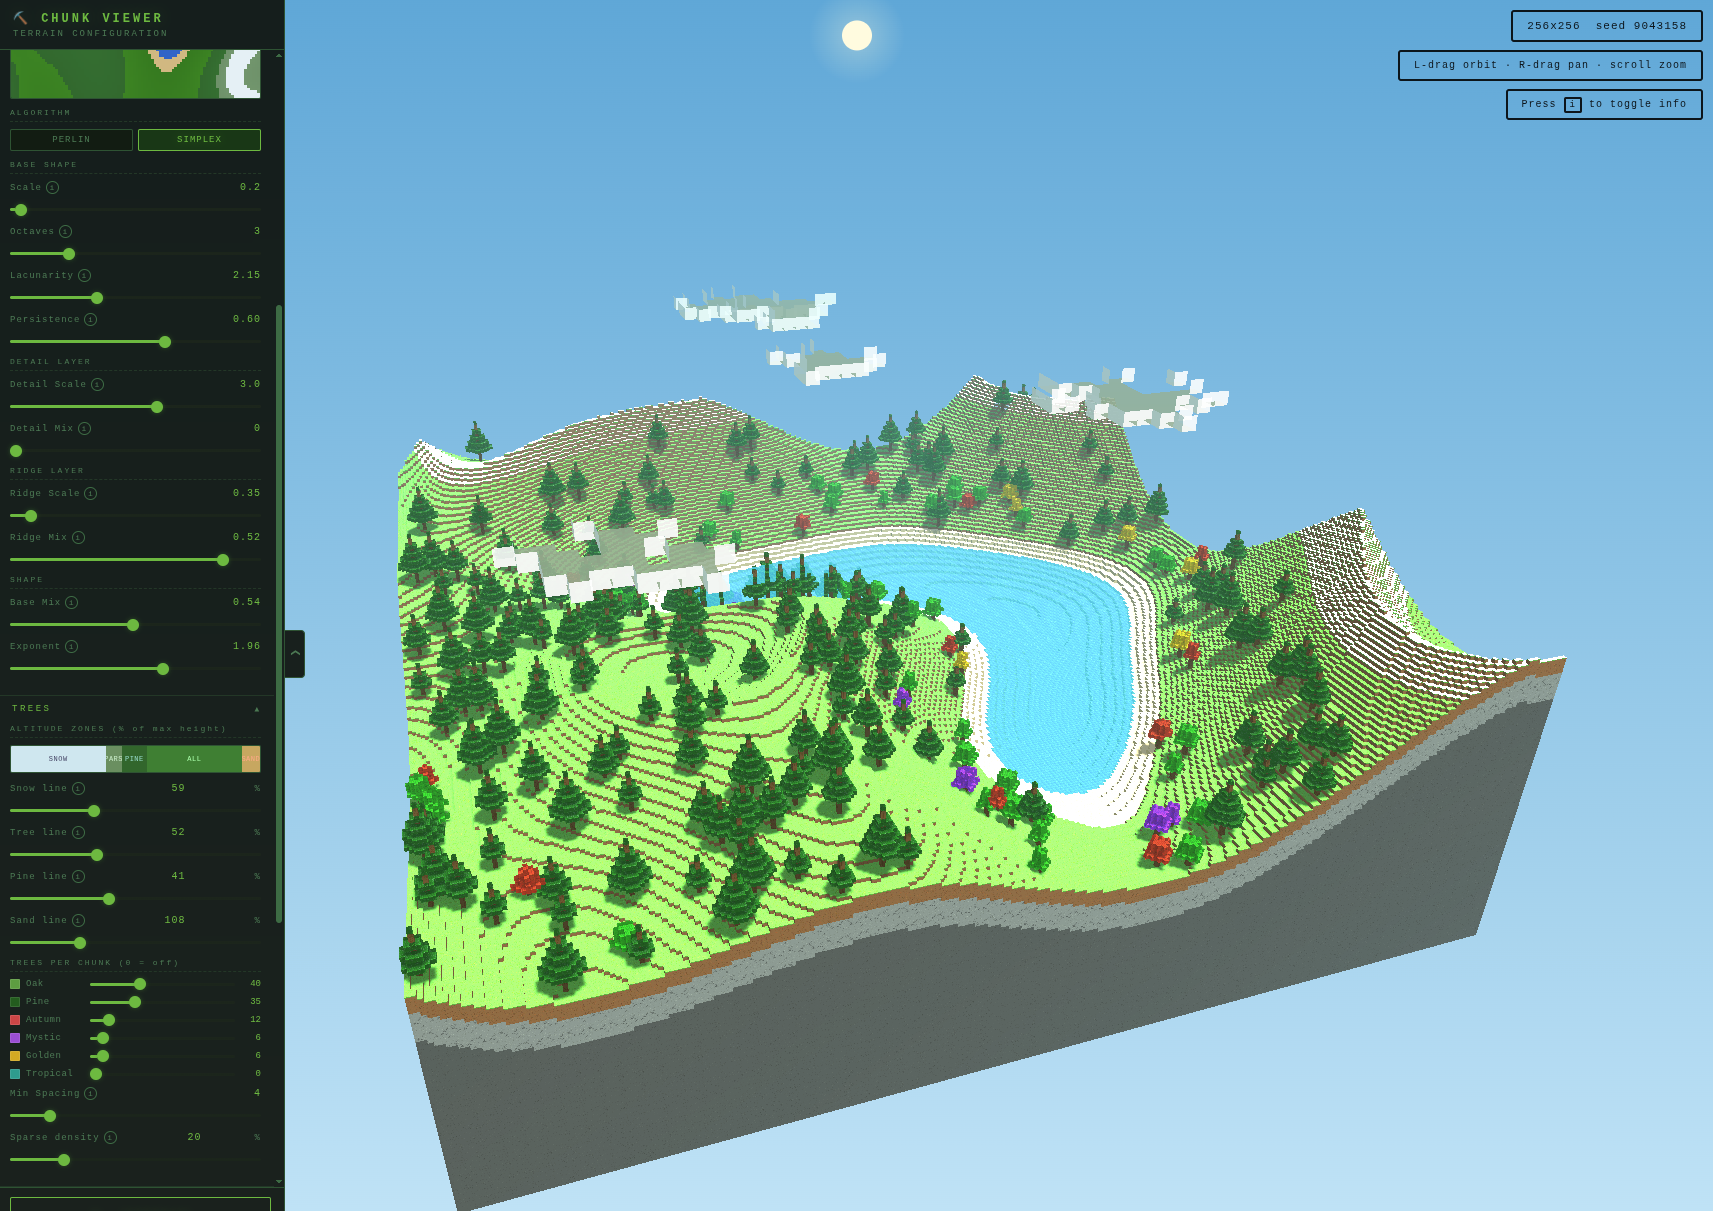
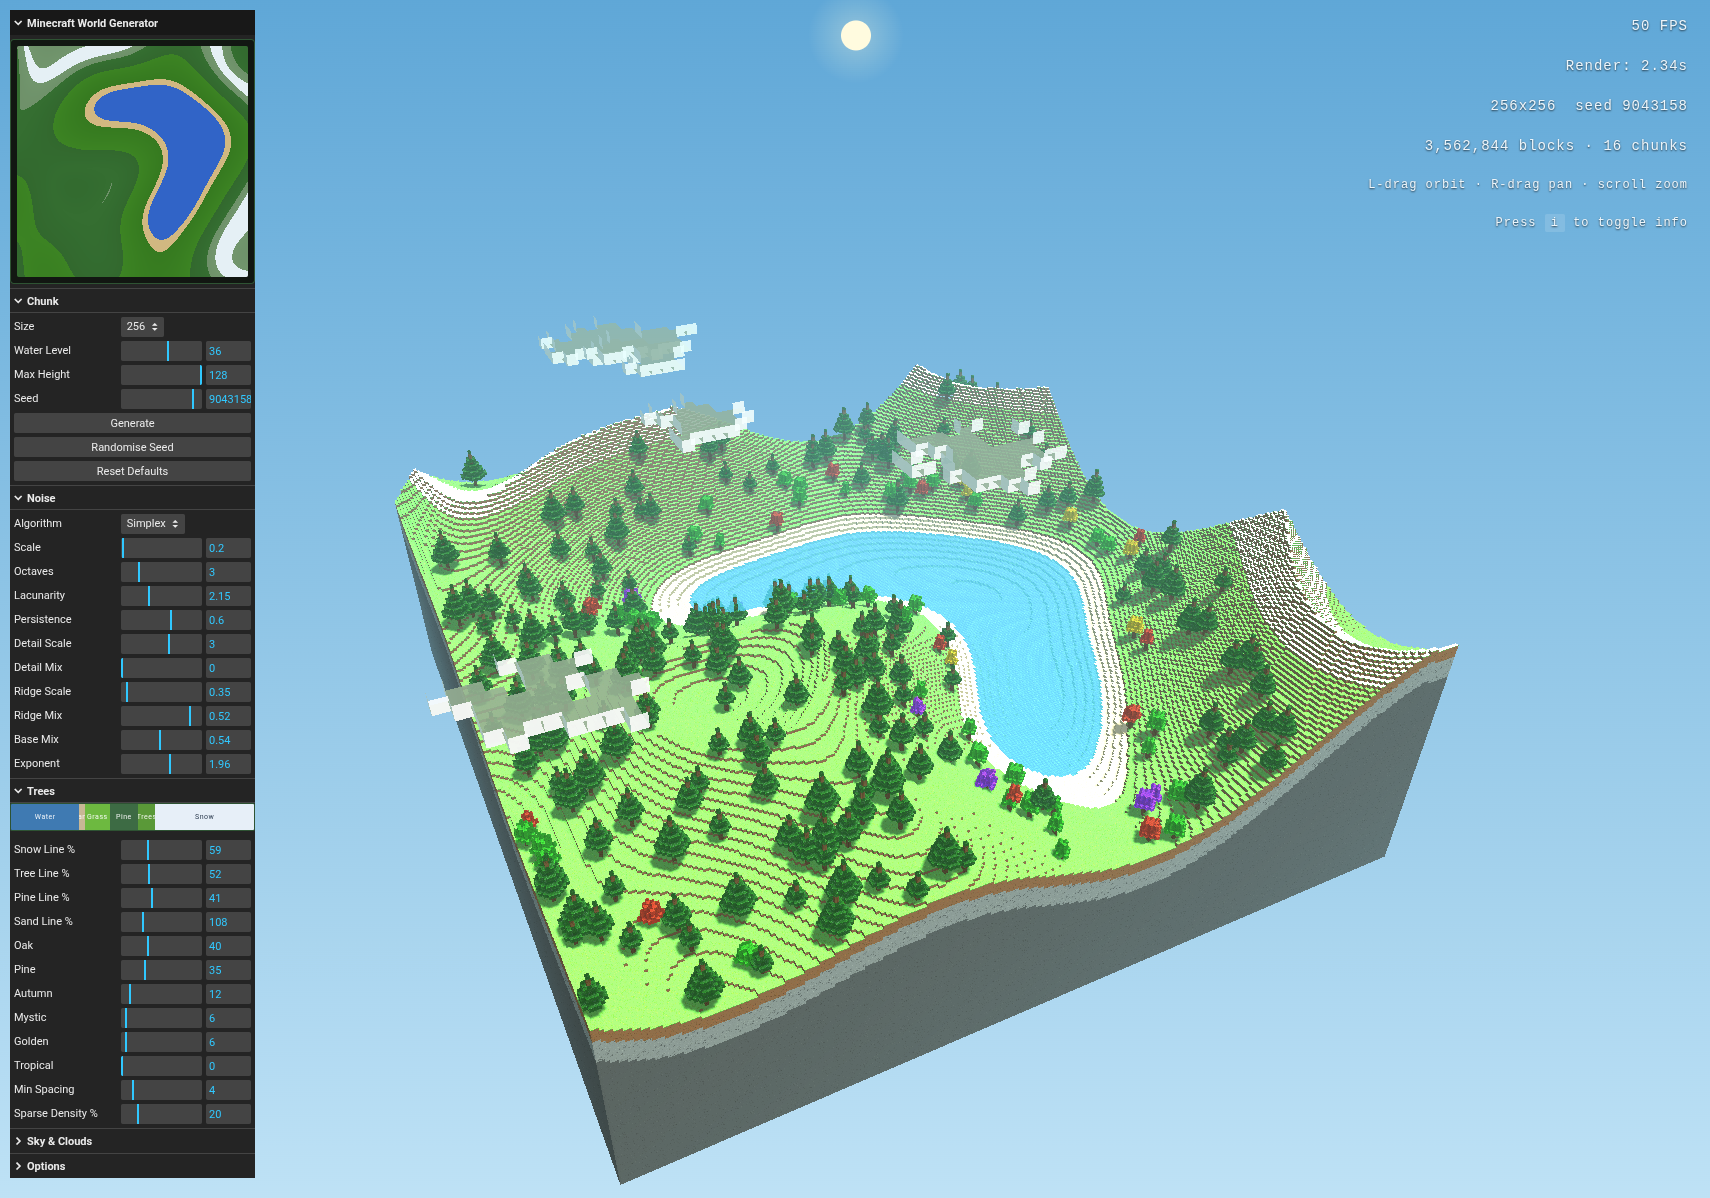
preview update

diff --git a/app.js b/app.js
@@ -1141,6 +1141,25 @@ function drawNoisePreview(){
 /* =====================================================
    LIL-GUI
 ===================================================== */
+function updateZoneVis(){
+  var zv=$e('zone-vis'); if(!zv) return;
+  var MAXH=cfg.maxHeight, WATER=cfg.waterLvl;
+  var sandLine=Math.round(WATER*(cfg.sandPct/100));
+  var pineLine=Math.round(MAXH*(cfg.pineline/100));
+  var treeLine=Math.round(MAXH*(cfg.treeline/100));
+  var snowLine=Math.round(MAXH*(cfg.snowPct/100));
+  var pct=function(a,b){ return Math.max(0,((b-a)/MAXH)*100); };
+  var bands=[
+    { el:zv.querySelector('[data-zone=water]'), w:pct(0,WATER) },
+    { el:zv.querySelector('[data-zone=sand]'), w:pct(WATER,sandLine) },
+    { el:zv.querySelector('[data-zone=grass]'), w:pct(sandLine,pineLine) },
+    { el:zv.querySelector('[data-zone=pine]'), w:pct(pineLine,treeLine) },
+    { el:zv.querySelector('[data-zone=trees]'), w:pct(treeLine,snowLine) },
+    { el:zv.querySelector('[data-zone=snow]'), w:pct(snowLine,MAXH) }
+  ];
+  for(var i=0;i<bands.length;i++){ if(bands[i].el) bands[i].el.style.width=bands[i].w+'%'; }
+}
+
 var treeRegenDebounce;
 function scheduleTreeRegenerate(){
   clearTimeout(treeRegenDebounce);
@@ -1155,8 +1174,8 @@ function setupGUI(){
   var chunkOpts = { 16:0, 32:1, 64:2, 96:3, 128:4, 256:5, 512:6, 1024:7 };
   var chunkFolder = gui.addFolder('Chunk');
   chunkFolder.add(cfg, 'chunkIdx', chunkOpts).name('Size').onChange(function(){ currentSeed=cfg.seed; generate(currentSeed); });
-  chunkFolder.add(cfg, 'waterLvl', 2, 60, 1).name('Water Level').onChange(function(){ scheduleNoise(); scheduleTreeRegenerate(); });
-  chunkFolder.add(cfg, 'maxHeight', 16, 128, 1).name('Max Height').onChange(function(){ scheduleNoise(); scheduleTreeRegenerate(); });
+  chunkFolder.add(cfg, 'waterLvl', 2, 60, 1).name('Water Level').onChange(function(){ updateZoneVis(); scheduleNoise(); scheduleTreeRegenerate(); });
+  chunkFolder.add(cfg, 'maxHeight', 16, 128, 1).name('Max Height').onChange(function(){ updateZoneVis(); scheduleNoise(); scheduleTreeRegenerate(); });
   chunkFolder.add(cfg, 'seed', 0, 9999999, 1).name('Seed');
   chunkFolder.add({ gen: function(){ currentSeed=cfg.seed; generate(currentSeed); } }, 'gen').name('Generate');
   chunkFolder.add({ rand: function(){ cfg.seed=currentSeed=Math.floor(Math.random()*9999999); generate(currentSeed); } }, 'rand').name('Randomise Seed');
@@ -1176,10 +1195,15 @@ function setupGUI(){
   noiseFolder.add(cfg, 'exp', 0.3, 3, 0.02).name('Exponent').onChange(scheduleNoise);
 
   var treeFolder = gui.addFolder('Trees');
-  treeFolder.add(cfg, 'snowPct', 40, 98, 1).name('Snow Line %').onChange(function(){ scheduleNoise(); scheduleTreeRegenerate(); });
-  treeFolder.add(cfg, 'treeline', 30, 95, 1).name('Tree Line %').onChange(function(){ scheduleNoise(); scheduleTreeRegenerate(); });
-  treeFolder.add(cfg, 'pineline', 10, 90, 1).name('Pine Line %').onChange(function(){ scheduleNoise(); scheduleTreeRegenerate(); });
-  treeFolder.add(cfg, 'sandPct', 100, 130, 1).name('Sand Line %').onChange(function(){ scheduleNoise(); scheduleTreeRegenerate(); });
+  var zoneVis = document.createElement('div');
+  zoneVis.id = 'zone-vis';
+  zoneVis.innerHTML = '<div class="zband" data-zone="water" style="width:0%">Water</div><div class="zband" data-zone="sand" style="width:0%">Sand</div><div class="zband" data-zone="grass" style="width:0%">Grass</div><div class="zband" data-zone="pine" style="width:0%">Pine</div><div class="zband" data-zone="trees" style="width:0%">Trees</div><div class="zband" data-zone="snow" style="width:0%">Snow</div>';
+  treeFolder.$children.insertBefore(zoneVis, treeFolder.$children.firstChild);
+  updateZoneVis();
+  treeFolder.add(cfg, 'snowPct', 40, 98, 1).name('Snow Line %').onChange(function(){ updateZoneVis(); scheduleNoise(); scheduleTreeRegenerate(); });
+  treeFolder.add(cfg, 'treeline', 30, 95, 1).name('Tree Line %').onChange(function(){ updateZoneVis(); scheduleNoise(); scheduleTreeRegenerate(); });
+  treeFolder.add(cfg, 'pineline', 10, 90, 1).name('Pine Line %').onChange(function(){ updateZoneVis(); scheduleNoise(); scheduleTreeRegenerate(); });
+  treeFolder.add(cfg, 'sandPct', 100, 130, 1).name('Sand Line %').onChange(function(){ updateZoneVis(); scheduleNoise(); scheduleTreeRegenerate(); });
   treeFolder.add(cfg, 'treeOak', 0, 120, 1).name('Oak').onChange(scheduleTreeRegenerate);
   treeFolder.add(cfg, 'treePine', 0, 120, 1).name('Pine').onChange(scheduleTreeRegenerate);
   treeFolder.add(cfg, 'treeAutumn', 0, 120, 1).name('Autumn').onChange(scheduleTreeRegenerate);

diff --git a/styles.css b/styles.css
@@ -107,9 +107,15 @@ input[type=number]:focus{border-color:var(--green);}
 }
 #zone-vis .zband{
   height:100%;display:flex;align-items:center;justify-content:center;
-  font-size:7px;letter-spacing:0.5px;color:rgba(255,255,255,0.6);
+  font-size:7px;letter-spacing:0.5px;color:rgba(255,255,255,0.9);
   overflow:hidden;white-space:nowrap;transition:width 0.2s;
 }
+#zone-vis .zband[data-zone=water]{background:#3d7bb3;}
+#zone-vis .zband[data-zone=sand]{background:#c9b896;}
+#zone-vis .zband[data-zone=grass]{background:#6dba3e;}
+#zone-vis .zband[data-zone=pine]{background:#3a6b42;}
+#zone-vis .zband[data-zone=trees]{background:#5a9a35;}
+#zone-vis .zband[data-zone=snow]{background:#e8f0f8;color:#2a3a50;}
 
 .divider{font-size:8px;color:var(--text-dim);letter-spacing:2px;margin:2px 0 7px;padding-bottom:4px;border-bottom:1px dashed var(--green-dk);}
 
